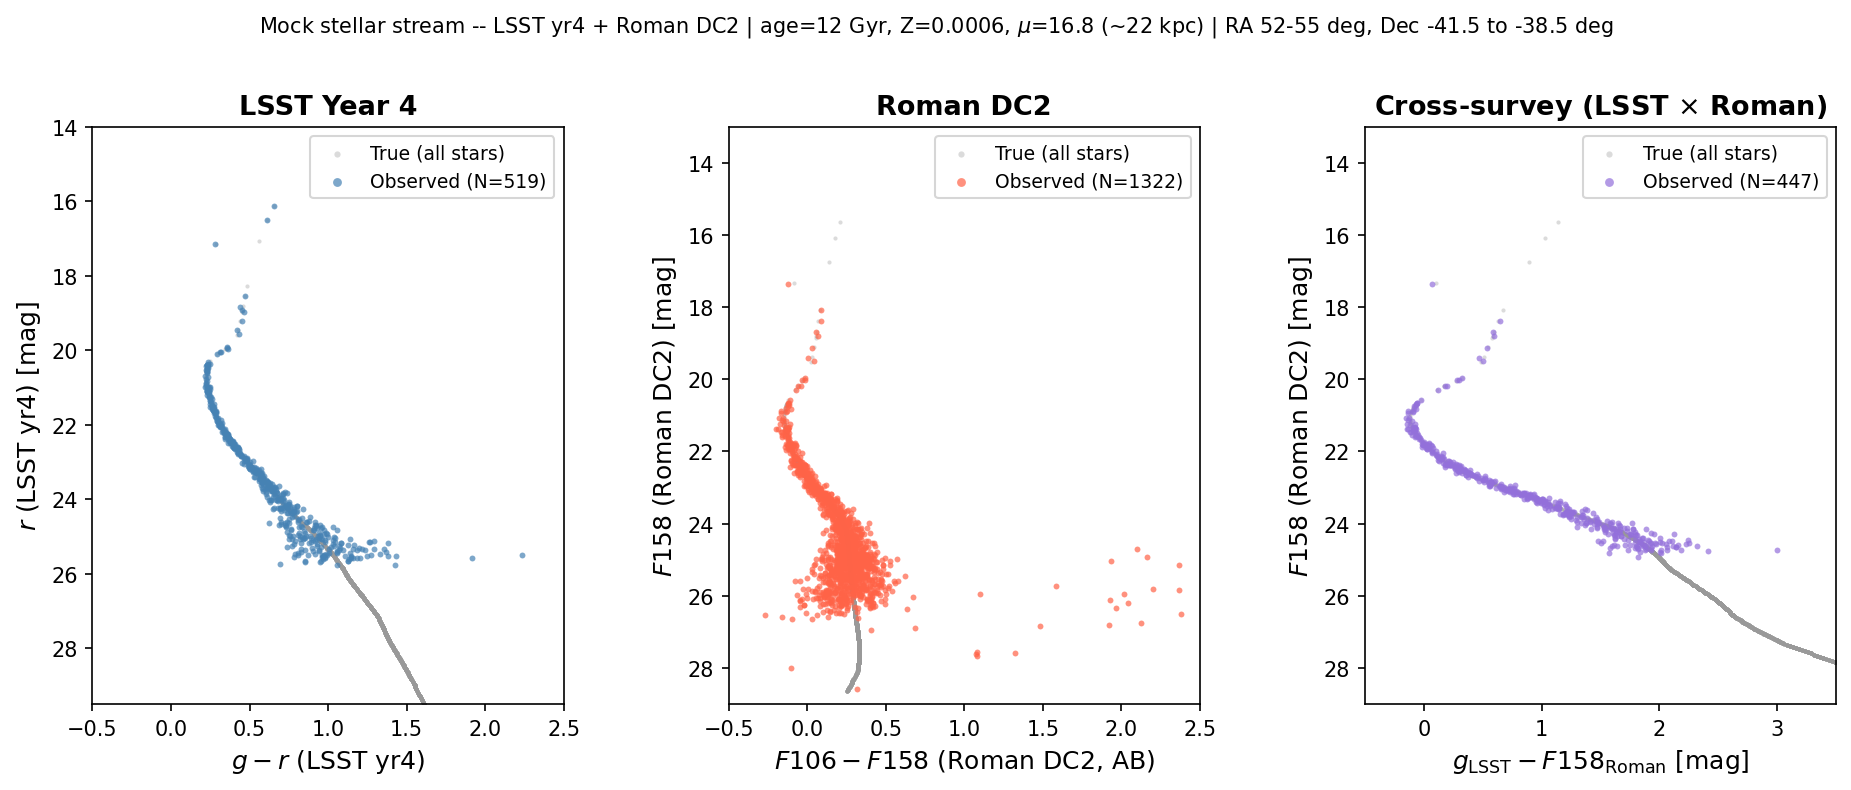
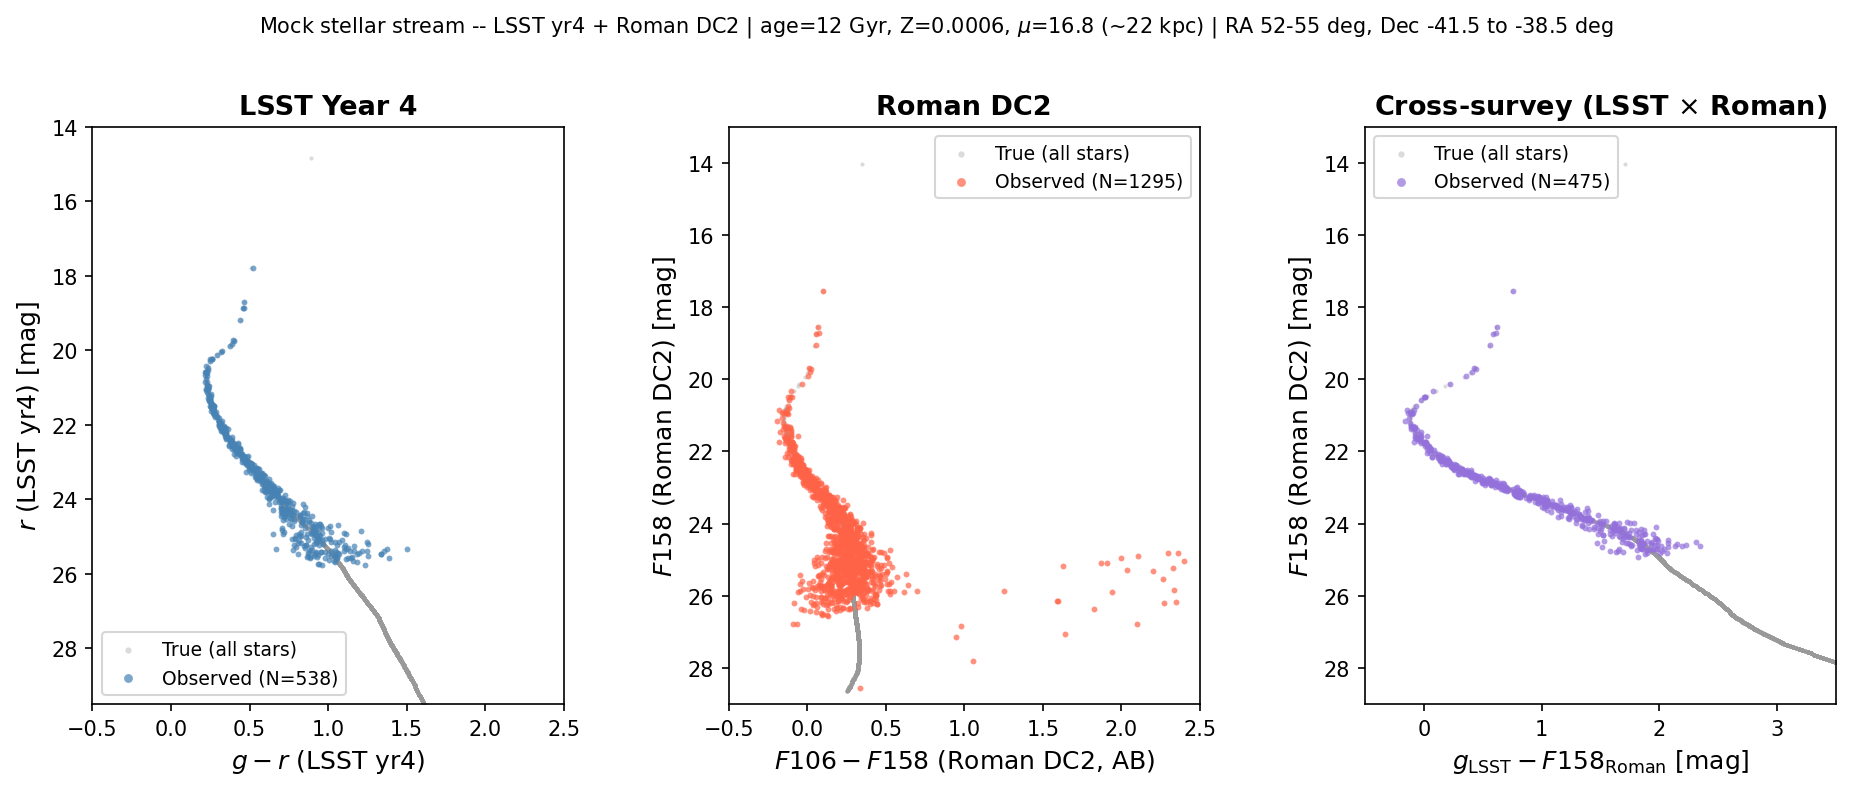
roman_hlwas: align to true/obs column convention + index/docs (rebase cleanup)

diff --git a/tests/test_roman.py b/tests/test_roman.py
@@ -140,9 +140,12 @@ def _make_roman_dc2_catalog(n=20, rng=None):
     for a small-footprint survey.
 
     Band names are uppercase (F158, F106) matching the survey config.
-    Column names follow the namespace convention: roman_dc2_<band>_true.
+    True-column names use the name-only convention: roman_<band>_true
+    (true mags are release-independent; ``true_col("F158","roman_dc2")`` →
+    ``roman_F158_true``).
     """
     import pandas as pd
+    from streamobs.columns import true_col
 
     if rng is None:
         rng = np.random.default_rng(42)
@@ -150,7 +153,7 @@ def _make_roman_dc2_catalog(n=20, rng=None):
         {
             "ra": rng.uniform(51.1, 51.9, n),
             "dec": rng.uniform(-38.3, -37.7, n),
-            "roman_dc2_F158_true": rng.uniform(22.0, 25.5, n),
+            true_col("F158", "roman_dc2"): rng.uniform(22.0, 25.5, n),
         }
     )
 
@@ -179,13 +182,14 @@ class TestRomanDC2Injection:
             verbose=False,
         )
 
+        from streamobs.columns import true_col, obs_col, err_col, flag_col
         expected_cols = [
             "ra",
             "dec",
-            "roman_dc2_F158_true",
-            "roman_dc2_F158_obs",
-            "roman_dc2_F158_err",
-            "roman_dc2_flag_observed",
+            true_col("F158", "roman_dc2"),      # roman_F158_true  (name-only)
+            obs_col("F158", "roman_dc2"),        # roman_dc2_F158_obs (full namespace)
+            err_col("F158", "roman_dc2"),        # roman_dc2_F158_err (full namespace)
+            flag_col("roman_dc2"),               # roman_dc2_flag_observed
         ]
         missing = [c for c in expected_cols if c not in out.columns]
         assert not missing, f"Missing columns after inject: {missing}"
@@ -193,11 +197,13 @@ class TestRomanDC2Injection:
     @_skip_no_data
     def test_true_mags_preserved_after_inject(self, roman_dc2_injector):
         """True magnitudes supplied in the input must survive inject() unchanged."""
+        from streamobs.columns import true_col
         df = _make_roman_dc2_catalog(n=15)
-        true_in = df["roman_dc2_F158_true"].values.copy()
+        true_colname = true_col("F158", "roman_dc2")   # roman_F158_true
+        true_in = df[true_colname].values.copy()
         out = roman_dc2_injector.inject(df, bands=["F158"], verbose=False)
-        assert np.allclose(out["roman_dc2_F158_true"].values, true_in), (
-            "roman_dc2_F158_true changed during inject()"
+        assert np.allclose(out[true_colname].values, true_in), (
+            f"{true_colname} changed during inject()"
         )
 
     @_skip_no_data
@@ -221,55 +227,78 @@ class TestRomanDC2Injection:
         detected = out[observed == 1]
         if len(detected) == 0:
             pytest.skip("No detected stars in this footprint sample — increase n")
-        diffs = (detected["roman_dc2_F158_obs"] - detected["roman_dc2_F158_true"]).abs()
+        from streamobs.columns import true_col, obs_col
+        diffs = (detected[obs_col("F158", "roman_dc2")] - detected[true_col("F158", "roman_dc2")]).abs()
         assert diffs.mean() > 0, "Observed mags identical to true — noise not applied"
 
 
 # ---------------------------------------------------------------------------
-# Round-trip regression: complete_data → inject column-case consistency
+# Convention test: true = name-only, obs/flag = full namespace
 # ---------------------------------------------------------------------------
 
 
 @pytest.mark.surveys
-class TestRomanDC2RoundTripColumnCase:
-    """Regression: complete_data and inject must produce matching-case F158 columns.
+class TestRomanDC2TrueNameObsNamespaceConvention:
+    """Verify the true=name-only / obs=full-namespace column convention after inject.
 
-    Before the band-name normalisation (f158→F158 in config + inject args),
-    complete_data emitted roman_dc2_F158_true (uppercase, from ugali) while inject
-    emitted roman_dc2_f158_obs (lowercase, from the config key).  After the fix both
-    should be uppercase: roman_dc2_F158_true AND roman_dc2_F158_obs must coexist.
+    The convention (streamobs.columns):
+      - true_col("F158", "roman_dc2") → roman_F158_true   (survey *name* only;
+        true mags are release-independent)
+      - obs_col("F158",  "roman_dc2") → roman_dc2_F158_obs (full namespace)
+      - flag_col("roman_dc2")         → roman_dc2_flag_observed
+
+    After inject():
+      - roman_F158_true   MUST be present (name-only, uppercase band)
+      - roman_dc2_F158_obs MUST be present (full namespace, uppercase band)
+      - roman_dc2_F158_true MUST be absent (wrong — release on true col)
+      - roman_f158_obs      MUST be absent (wrong — lowercase band)
+      - roman_f158_true     MUST be absent (wrong — lowercase band)
 
     This test is skipped if roman_dc2 data files are absent.
     """
 
     @_skip_no_data
-    def test_true_and_obs_columns_have_matching_case(self, roman_dc2_injector):
-        """complete_data→inject round-trip: F158 true and obs columns both uppercase."""
+    def test_true_name_only_obs_namespace_convention(self, roman_dc2_injector):
+        """inject() must emit roman_F158_true (name-only) and roman_dc2_F158_obs
+        (full namespace); wrong-namespace true and lowercase variants absent."""
         import pandas as pd
+        from streamobs.columns import true_col, obs_col, flag_col
 
         rng = np.random.default_rng(7)
         n = 25
-        # Pre-supply true magnitudes using the now-uppercase column name
+        # Pre-supply true magnitudes using the correct name-only column name
         df = pd.DataFrame(
             {
                 "ra": rng.uniform(51.1, 51.9, n),
                 "dec": rng.uniform(-38.3, -37.7, n),
-                "roman_dc2_F158_true": rng.uniform(22.0, 25.5, n),
+                true_col("F158", "roman_dc2"): rng.uniform(22.0, 25.5, n),
             }
         )
         out = roman_dc2_injector.inject(df, bands=["F158"], verbose=False)
 
-        # Both columns must be present with matching case
-        assert "roman_dc2_F158_true" in out.columns, (
-            "roman_dc2_F158_true missing after inject — uppercase true column lost"
+        # Correct columns must be present
+        assert true_col("F158", "roman_dc2") in out.columns, (
+            f"{true_col('F158','roman_dc2')} missing — name-only true column lost"
         )
-        assert "roman_dc2_F158_obs" in out.columns, (
-            "roman_dc2_F158_obs missing after inject — band key is still lowercase"
+        assert obs_col("F158", "roman_dc2") in out.columns, (
+            f"{obs_col('F158','roman_dc2')} missing — full-namespace obs column absent"
+        )
+        assert flag_col("roman_dc2") in out.columns, (
+            f"{flag_col('roman_dc2')} missing after inject"
         )
 
-        # Confirm the old lowercase obs column is NOT present (the bug is gone)
+        # Wrong-form columns must be absent
+        assert "roman_dc2_F158_true" not in out.columns, (
+            "roman_dc2_F158_true present — release must NOT appear on true columns"
+        )
+        assert "roman_f158_obs" not in out.columns, (
+            "roman_f158_obs present — lowercase band key not fully removed"
+        )
         assert "roman_dc2_f158_obs" not in out.columns, (
-            "roman_dc2_f158_obs still present — lowercase band key not fully removed"
+            "roman_dc2_f158_obs present — lowercase band key not fully removed"
+        )
+        assert "roman_f158_true" not in out.columns, (
+            "roman_f158_true present — lowercase band in true column"
         )
 
 

diff --git a/docs/source/selection_function_methodology.md b/docs/source/selection_function_methodology.md
@@ -43,8 +43,11 @@ translates the curves to the corresponding depth.
 > `classifiction_eff` (the misspelling is intentional and load-bearing — the loader
 > greps that exact string). Keep it when re-deriving products for other surveys.
 
-> **Column namespacing.** Injected columns follow the `{name}_{release}` convention
-> (e.g. `roman_dc2_F158_mag`), so multiple releases can coexist in one catalog.
+> **Column namespacing.** True-magnitude columns use the survey *name* only
+> (`roman_F158_true`; true mags are release-independent), while observed/error/flag
+> columns use the full `{name}_{release}` namespace
+> (`roman_dc2_F158_obs`, `roman_dc2_flag_observed`), so multiple releases can coexist
+> in one catalog.
 
 ## The matched detection→truth catalog
 